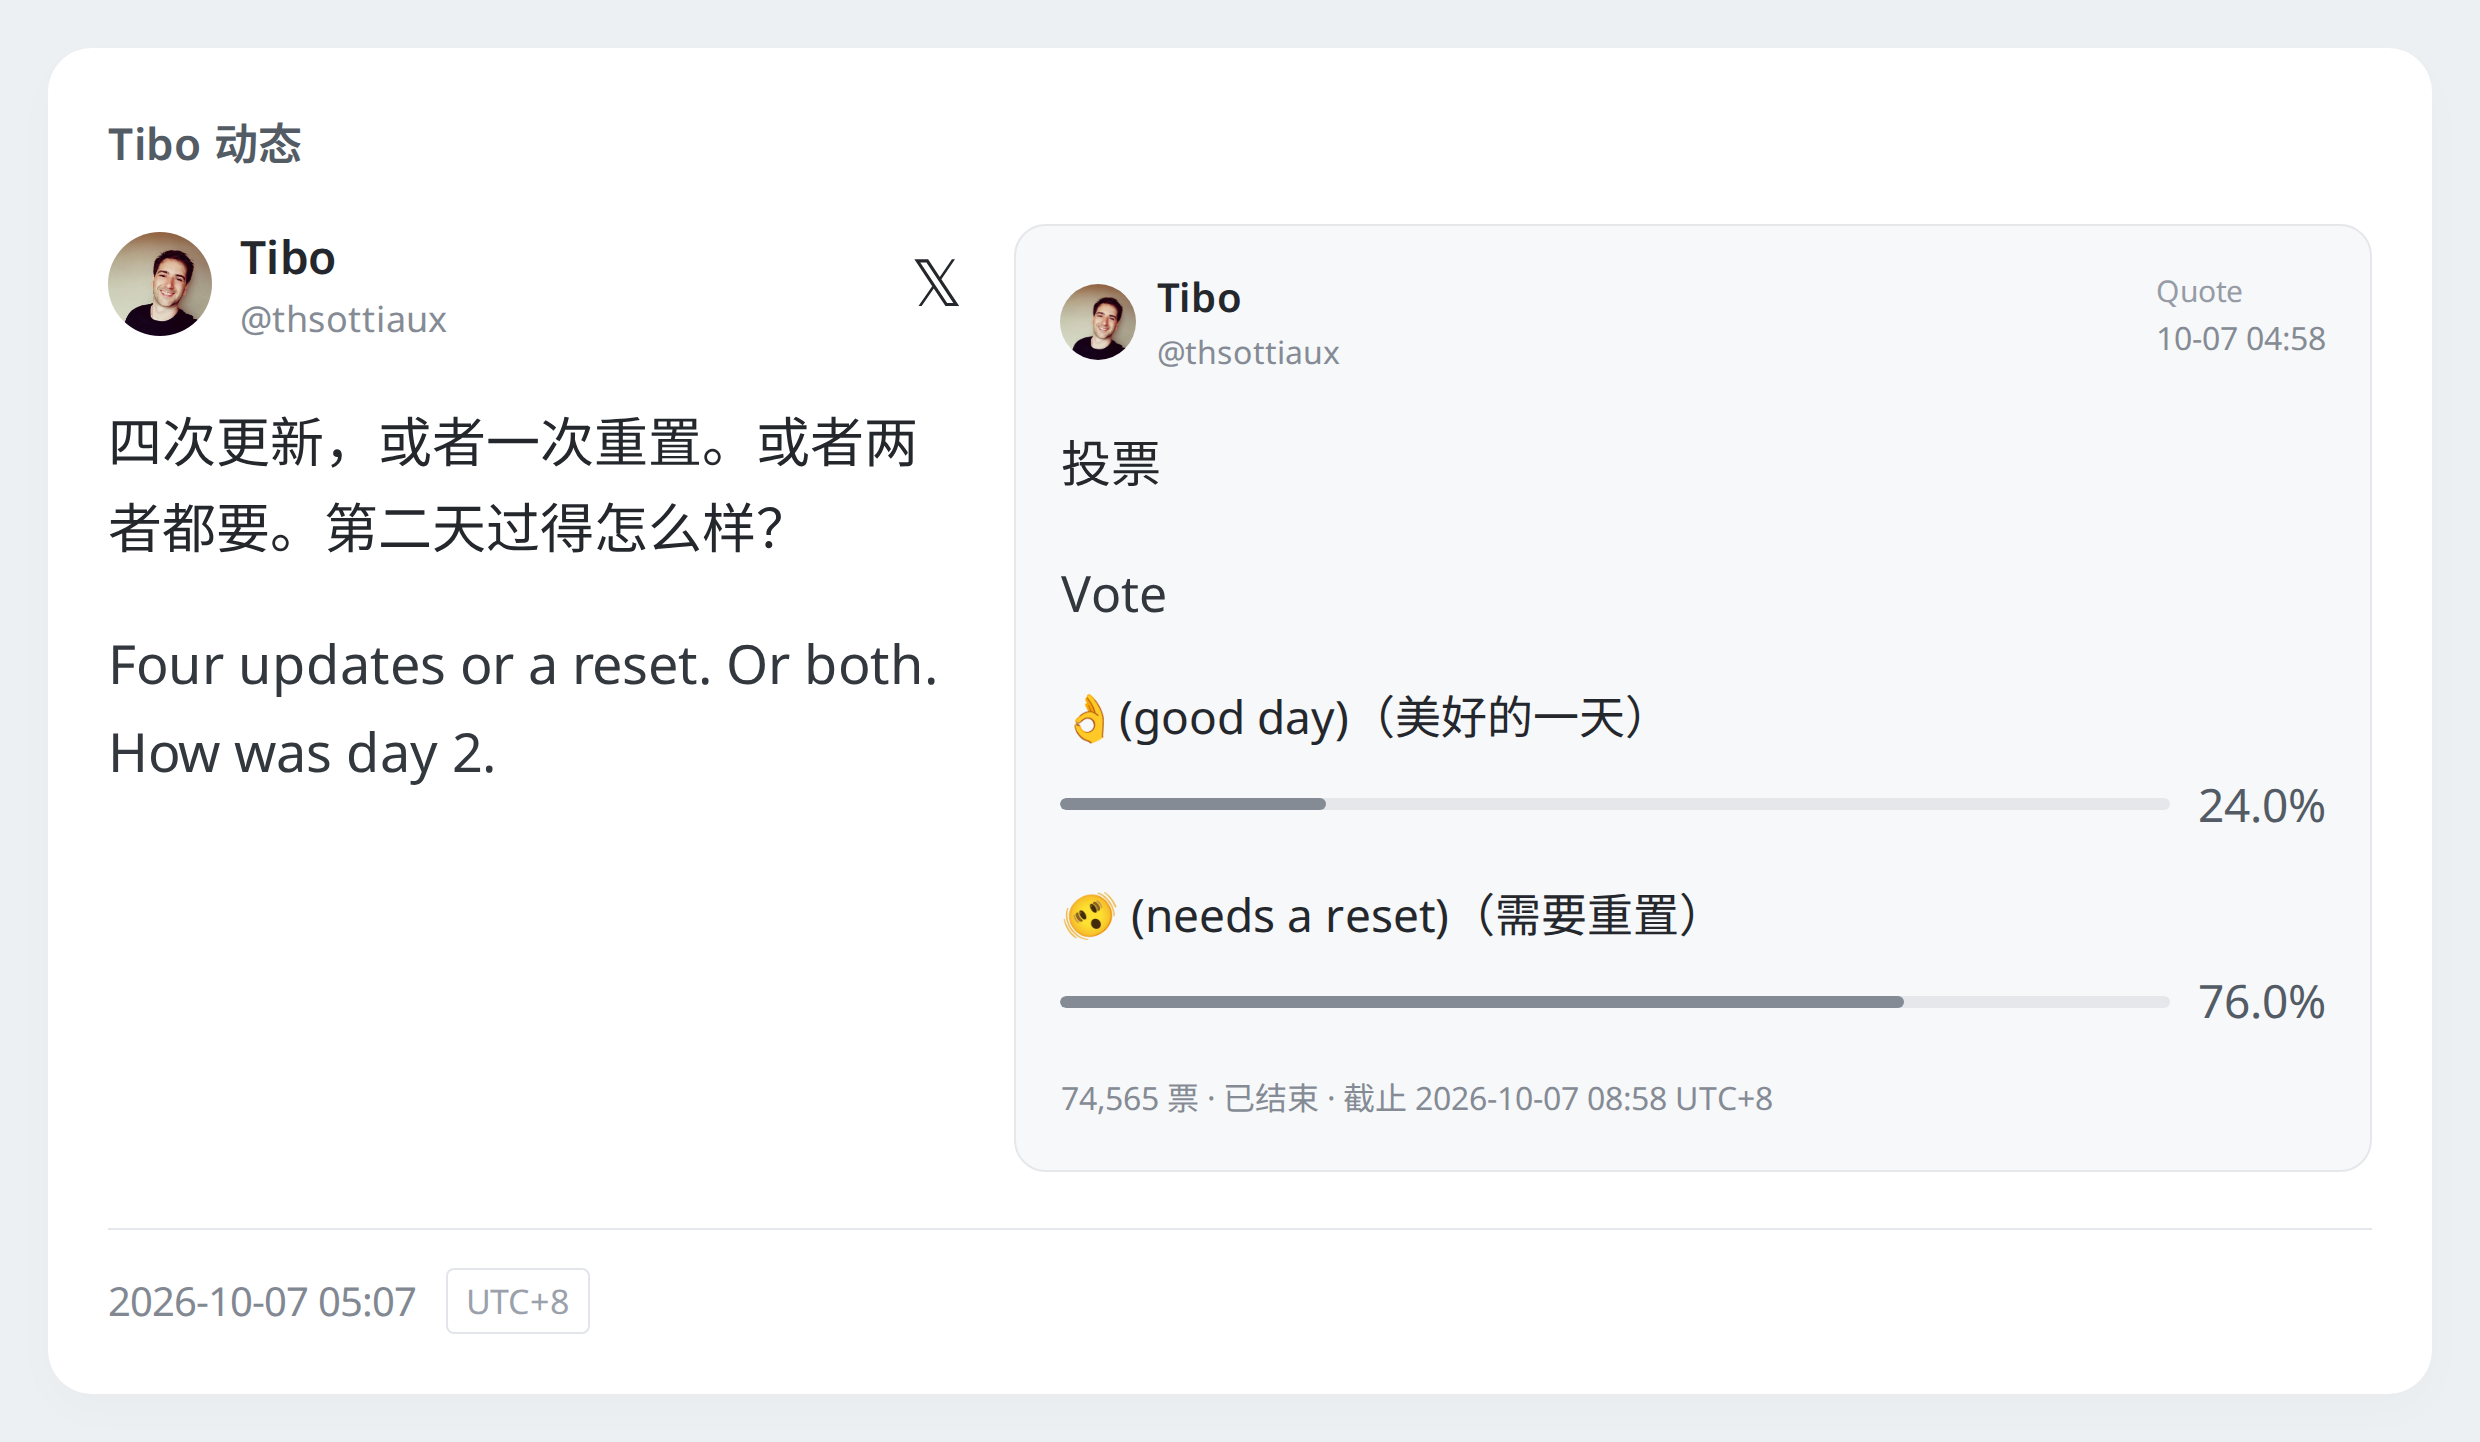
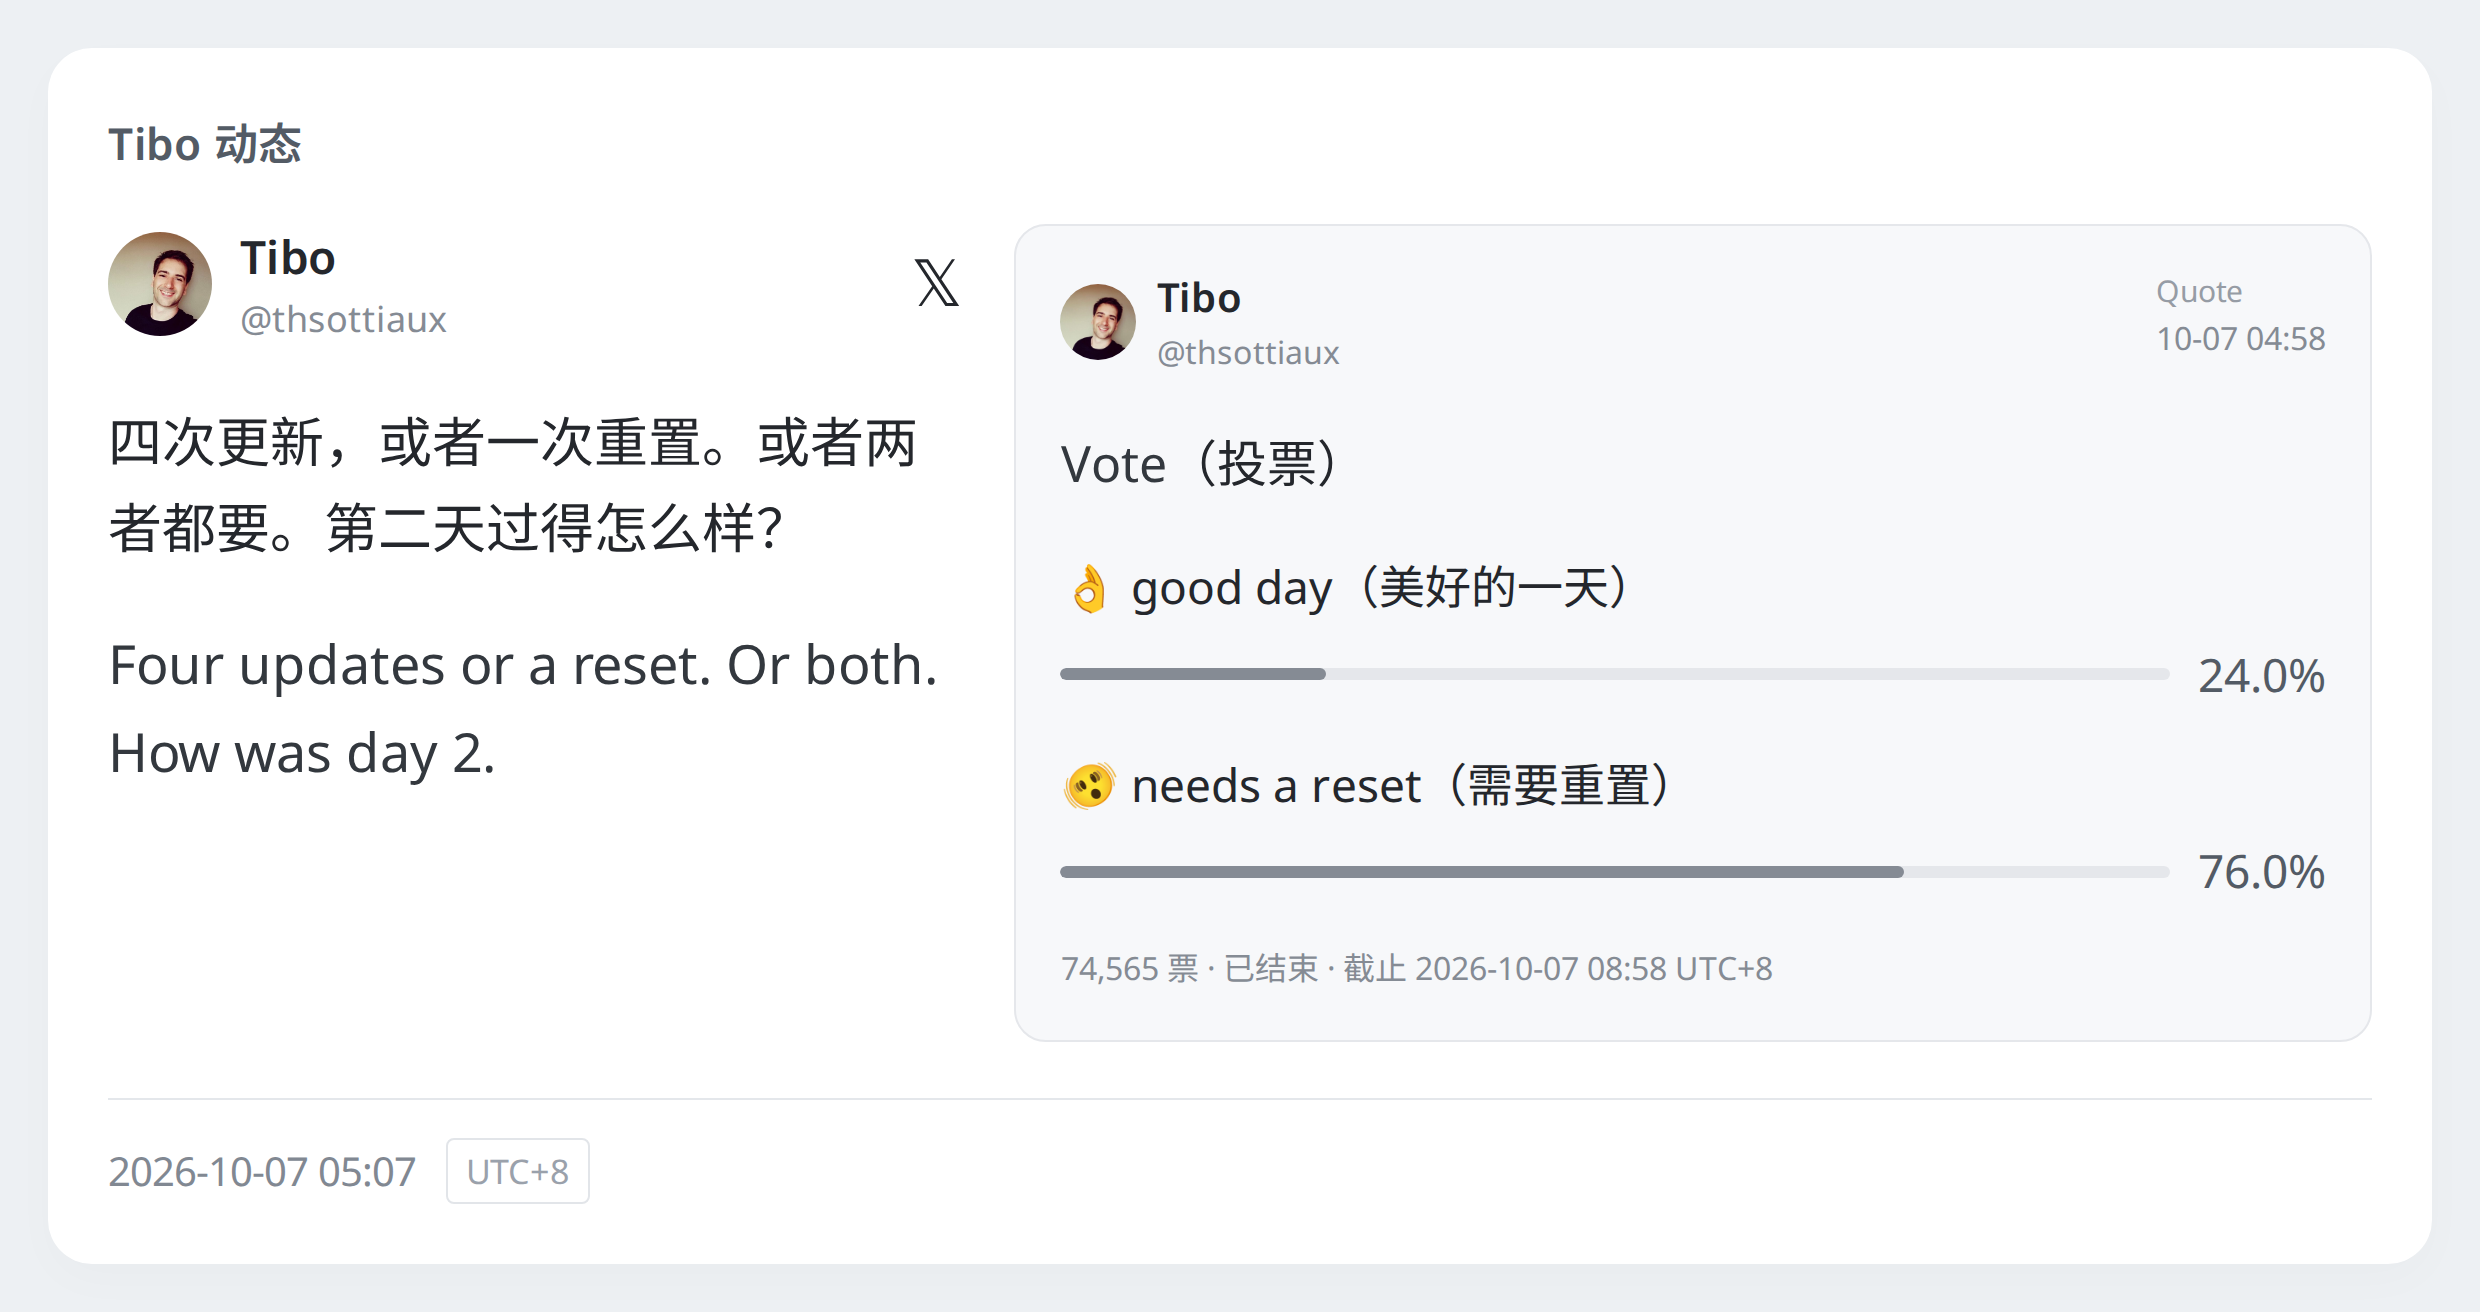
fix: simplify quoted poll captions and inline short headings

diff --git a/test_quoted_poll.py b/test_quoted_poll.py
@@ -225,7 +225,7 @@ def test_option_translation_is_optional_and_never_rewrites_statistics(
         p._notice_card("Tibo 动态", "", c, "主帖", NOW.isoformat(), True)
     )
     html = build_card_html(rendered, NOW)
-    assert "👌(good day)" in html and "🫨 (needs a reset)" in html
+    assert "👌 good day" in html and "🫨 needs a reset" in html
     assert "24.0%" in html and "76.0%" in html and "74,565 票" in html
     assert ("美好的一天" in html) is (translation == "success")
     assert "Vote" in inputs and all(
@@ -340,11 +340,16 @@ def test_all_providers_fail_but_real_schema_feed_fallback_keeps_poll(
     "label, translation, expected",
     [
         ("🤌 good day", "🤌（美好的一天）", "🤌 good day（美好的一天）"),
-        ("👌(Good Day)", "👌（美好的一天）", "👌(Good Day)（美好的一天）"),
+        ("👌(Good Day)", "👌（美好的一天）", "👌 Good Day（美好的一天）"),
         ("🫨 Needs a Reset", "🫨 (需要重置)", "🫨 Needs a Reset（需要重置）"),
         ("👌🏽 good day", "👌🏽（很好）", "👌🏽 good day（很好）"),
         ("👩💻 Good Day", "👩💻（美好的一天）", "👩💻 Good Day（美好的一天）"),
         ("Good Day", "", "Good Day"),
+        ("👌 (good day)", "", "👌 good day"),
+        ("(Good Day)", "很好", "Good Day（很好）"),
+        ("👌（Good Day）", "很好", "👌 Good Day（很好）"),
+        ("Good (day)", "很好", "Good (day)（很好）"),
+        ("👌 (good) (day)", "很好", "👌 (good) (day)（很好）"),
         ("Good Day", "（）", "Good Day"),
         ("👌 Good Day", "👌", "👌 Good Day"),
         ("已经很好👌", "已经很好👌", "已经很好👌"),
@@ -372,3 +377,54 @@ def test_percentage_has_one_decimal_but_bar_preserves_snapshot_precision():
     assert "width:24.64%" in html and "width:75.36%" in html
     assert 'class="poll-option-head"' not in html
     assert html.index('class="poll-track"') < html.index('class="poll-percentage"')
+
+
+@pytest.mark.parametrize(
+    "text, translation",
+    [("Vote", "投票"), ("Day 2", "第二天"), ("Vote", ""), ("Vote", "Vote")],
+)
+def test_short_poll_heading_inline(text, translation):
+    q = quoted()
+    q["text"] = text
+    before = deepcopy(q)
+    rendered = card(q)
+    rendered.quote_translation = translation
+    html = build_card_html(rendered, NOW)
+    expected = f'<span class="body en" lang="en">{text}</span>'
+    if translation and translation != text:
+        expected += f'<span class="body zh" lang="zh">（{translation}）</span>'
+    assert f'<div class="body quote-title">{expected}</div>' in html
+    assert q == before  # Display cleanup never modifies provider snapshot data.
+    assert 'class="poll-footer"' in html
+
+
+@pytest.mark.parametrize(
+    "text, translation, has_poll",
+    [
+        ("A long poll question " * 4, "完整问题译文", True),
+        ("Vote\nNow", "现在\n投票", True),
+        ("Vote", "投票", False),
+    ],
+)
+def test_other_quote_bodies_keep_translation_blocks(text, translation, has_poll):
+    from html import escape
+
+    q = quoted()
+    q["text"] = text
+    if not has_poll:
+        q.pop("poll")
+    rendered = card(q)
+    rendered.quote_translation = translation
+    html = build_card_html(rendered, NOW)
+    assert 'class="body quote-title"' not in html
+    assert f'<div class="body zh" lang="zh">{escape(translation)}</div>' in html
+    assert f'<div class="body en" lang="en">{escape(text)}</div>' in html
+
+
+def test_short_poll_heading_escapes_original_and_translation():
+    q = quoted()
+    q["text"] = "<Vote>"
+    rendered = card(q)
+    rendered.quote_translation = "<投票>"
+    html = build_card_html(rendered, NOW)
+    assert '&lt;Vote&gt;</span><span class="body zh" lang="zh">（&lt;投票&gt;）' in html

diff --git a/notice_card.py b/notice_card.py
@@ -5,6 +5,7 @@ from __future__ import annotations
 import asyncio
 import base64
 import math
+import re
 import unicodedata
 from dataclasses import dataclass
 from datetime import datetime
@@ -48,7 +49,13 @@ def _avatar() -> str:
 
 
 def _poll_option_label(label: str, translation: str) -> str:
-    """Keep the original label intact; avoid repeated emoji and outer brackets."""
+    """Remove caption wrappers for display only; preserve casing and emoji."""
+    wrapped = re.fullmatch(r"([^\w(（]*)(?:\(([^()]*)\)|（([^（）]*)）)", label)
+    if wrapped:
+        prefix = wrapped[1].strip()
+        label = (prefix + " " if prefix else "") + (
+            wrapped[2] or wrapped[3] or ""
+        ).strip()
     symbols = {c for c in label if unicodedata.category(c) == "So"}
 
     def caption(value: str) -> str:
@@ -171,7 +178,28 @@ def build_card_html(card: NoticeCard, now: datetime) -> str:
         except (ValueError, TypeError, KeyError, OverflowError):
             pass
         poll = quote.get("poll") if isinstance(quote.get("poll"), dict) else None
-        body = _body(str(quote.get("text") or ""), card.quote_translation)
+        text = str(quote.get("text") or "")
+        translation = card.quote_translation
+        body = _body(text, translation)
+        # Only short poll headings are inline; ordinary/long quote bodies retain
+        # whole-translation blocks. Unknown poll placeholders stay hidden below.
+        if (
+            poll is not None
+            and text.strip()
+            and len(text.strip()) + len(translation.strip()) <= 40
+            and "\n" not in text + translation
+            and "\r" not in text + translation
+        ):
+            translated = translation.strip()
+            suffix = (
+                f'<span class="body zh" lang="zh">（{escape(translated)}）</span>'
+                if translated and translated.casefold() != text.strip().casefold()
+                else ""
+            )
+            body = (
+                '<div class="body quote-title">'
+                f'<span class="body en" lang="en">{escape(text)}</span>{suffix}</div>'
+            )
         if (
             poll is not None
             and len(poll.get("options") or []) < 2

diff --git a/test_card_browser.py b/test_card_browser.py
@@ -104,9 +104,14 @@ def test_real_local_screenshot_and_layout(tmp_path, kind):
                     assert await page.locator(".poll-option").count() == 2
                     assert "74,565 票" in visible and "✓" not in visible
                     assert ("进行中" if kind == "active-poll" else "已结束") in visible
+                    title = page.locator(".quote-title")
+                    assert await title.inner_text() == "Vote（投票）"
+                    title_en = await title.locator(".en").bounding_box()
+                    title_zh = await title.locator(".zh").bounding_box()
+                    assert abs(title_en["y"] - title_zh["y"]) < 1
                     captions = [
-                        "👌(good day)（美好的一天）",
-                        "🫨 (needs a reset)（需要重置）",
+                        "👌 good day（美好的一天）",
+                        "🫨 needs a reset（需要重置）",
                     ]
                     for i, caption in enumerate(captions):
                         label = page.locator(".poll-label").nth(i)
@@ -141,7 +146,9 @@ def test_real_local_screenshot_and_layout(tmp_path, kind):
                 await session.send("CSS.enable")
                 root = (await session.send("DOM.getDocument"))["root"]["nodeId"]
                 selectors = [".notice-title", ".body.zh", ".body.en", "time"]
-                if card.quote:
+                if kind in {"poll", "active-poll"}:
+                    selectors.extend([".quote-title .zh", ".quote-title .en"])
+                elif card.quote:
                     selectors.extend([".quote .body.zh", ".quote .body.en"])
                 for selector in selectors:
                     node = await session.send(
